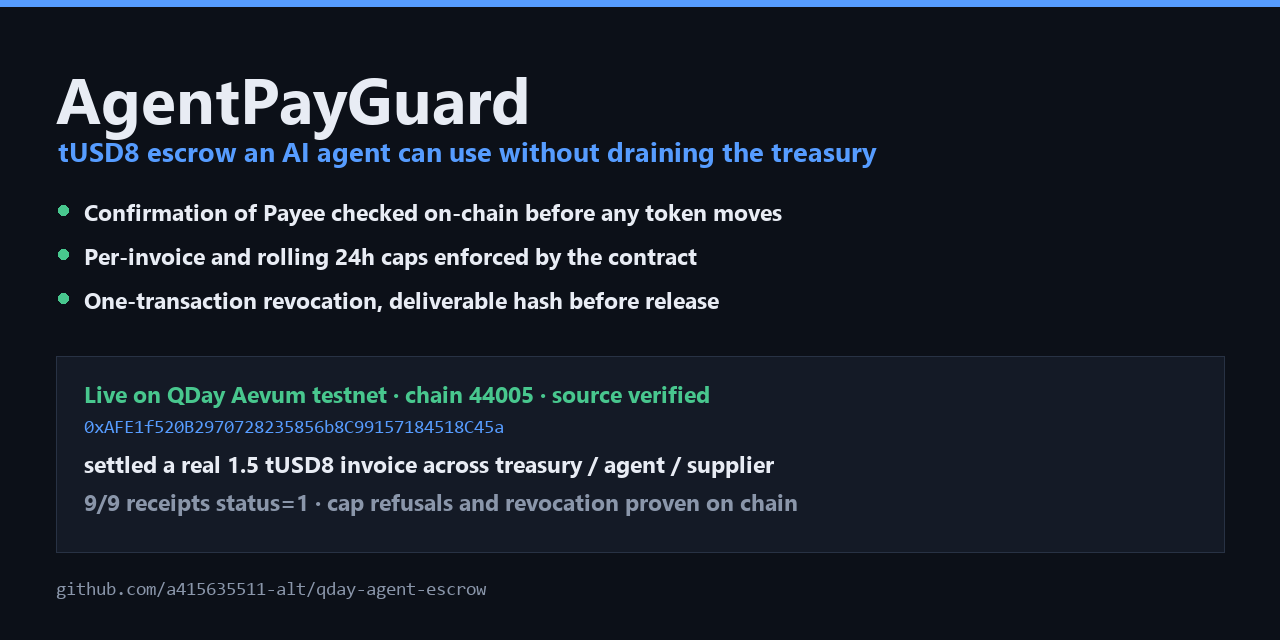
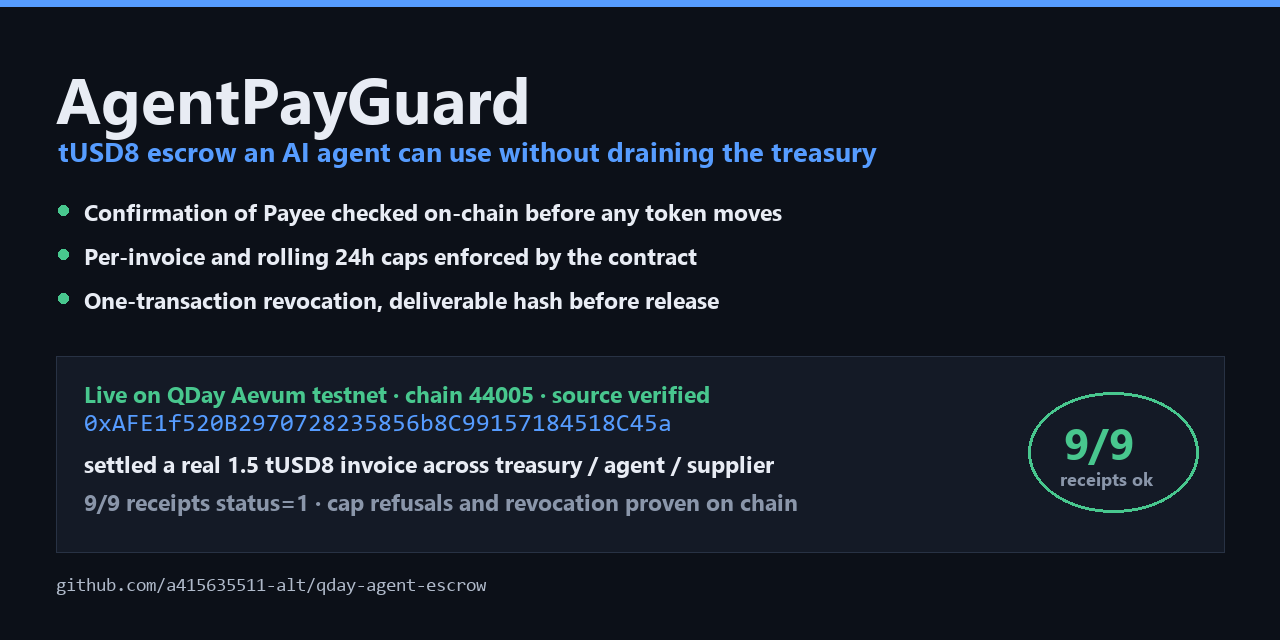
cover polish; submission doc: live console link

diff --git a/scripts/build_cover.py b/scripts/build_cover.py
@@ -30,6 +30,9 @@ f_title = load(FONT_CANDIDATES, 64)
 f_sub = load(FONT_CANDIDATES, 27)
 f_body = load(FONT_CANDIDATES, 23)
 f_mono = load(MONO_CANDIDATES, 19)
+f_addr = load(MONO_CANDIDATES, 25)
+f_badge = load(FONT_CANDIDATES, 44)
+f_badge_small = load(FONT_CANDIDATES, 18)
 
 img = Image.new("RGB", (W, H), BG)
 d = ImageDraw.Draw(img)
@@ -51,11 +54,15 @@ for p in points:
 
 d.rectangle([56, 356, W - 56, 552], fill=CARD, outline=(40, 50, 68))
 d.text((84, 378), "Live on QDay Aevum testnet · chain 44005 · source verified", font=f_body, fill=GREEN)
-d.text((84, 418), dep["agentPayGuard"], font=f_mono, fill=ACCENT)
+d.text((84, 412), dep["agentPayGuard"], font=f_addr, fill=ACCENT)
 d.text((84, 448), "settled a real 1.5 tUSD8 invoice across treasury / agent / supplier", font=f_body, fill=FG)
 d.text((84, 486), "9/9 receipts status=1 · cap refusals and revocation proven on chain", font=f_body, fill=MUTED)
 
-d.text((56, 580), "github.com/a415635511-alt/qday-agent-escrow", font=f_mono, fill=MUTED)
+d.text((56, 576), "github.com/a415635511-alt/qday-agent-escrow", font=f_mono, fill=(176, 186, 202))
+# right-hand badge inside the proof card
+d.ellipse([1028, 392, 1198, 512], outline=GREEN, width=3)
+d.text((1064, 412), "9/9", font=f_badge, fill=GREEN)
+d.text((1060, 466), "receipts ok", font=f_badge_small, fill=MUTED)
 
 out = ROOT / "cover.png"
 img.save(out)
